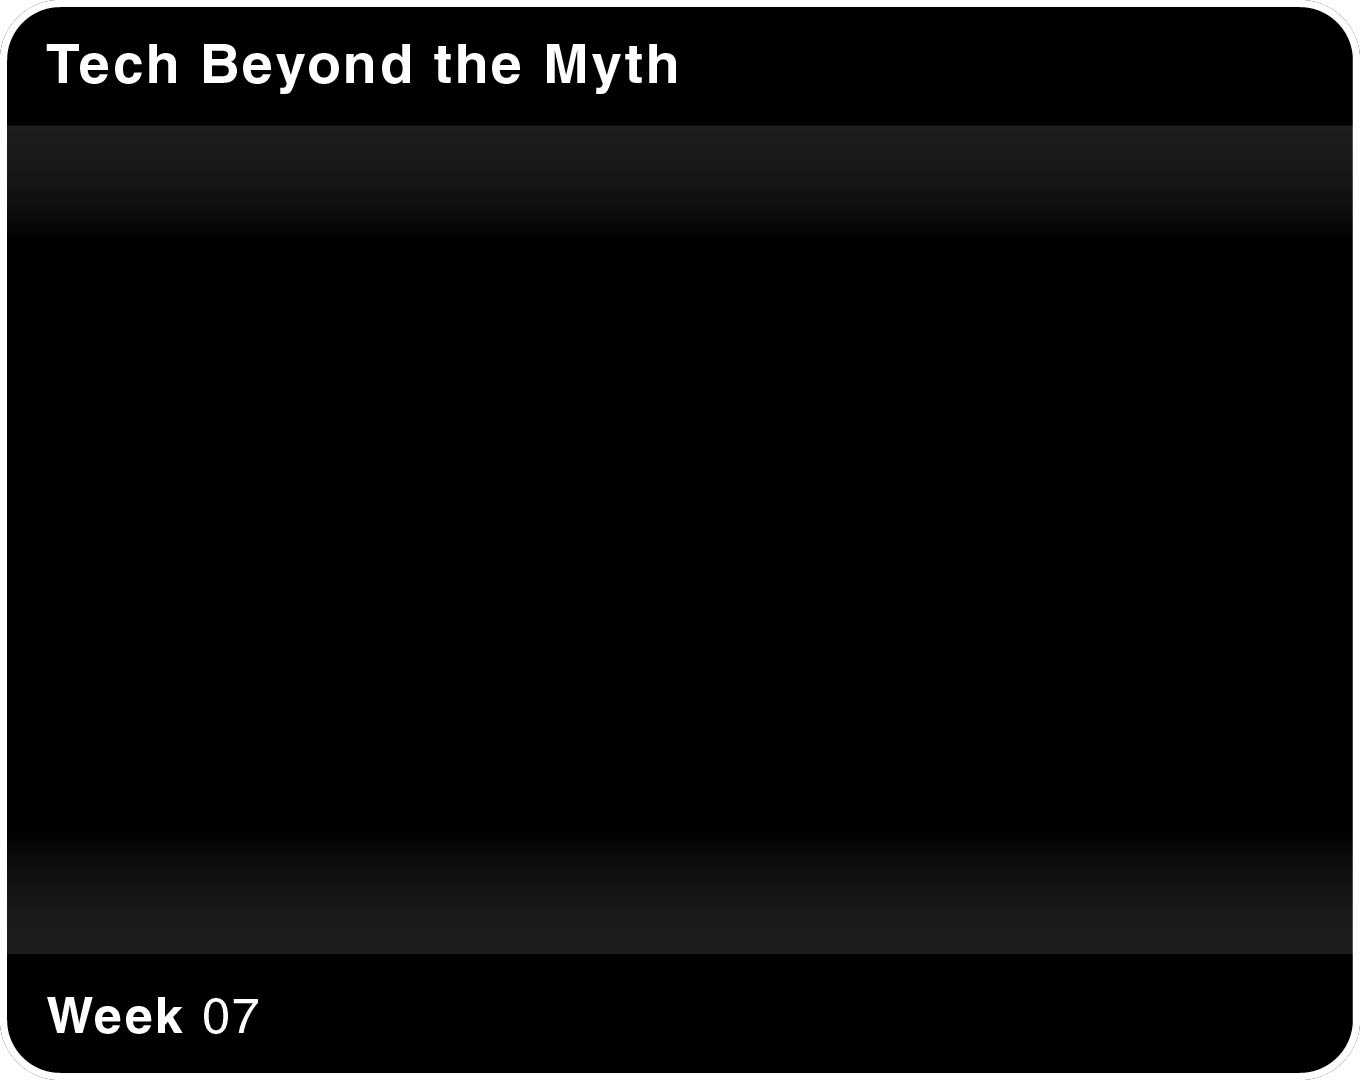
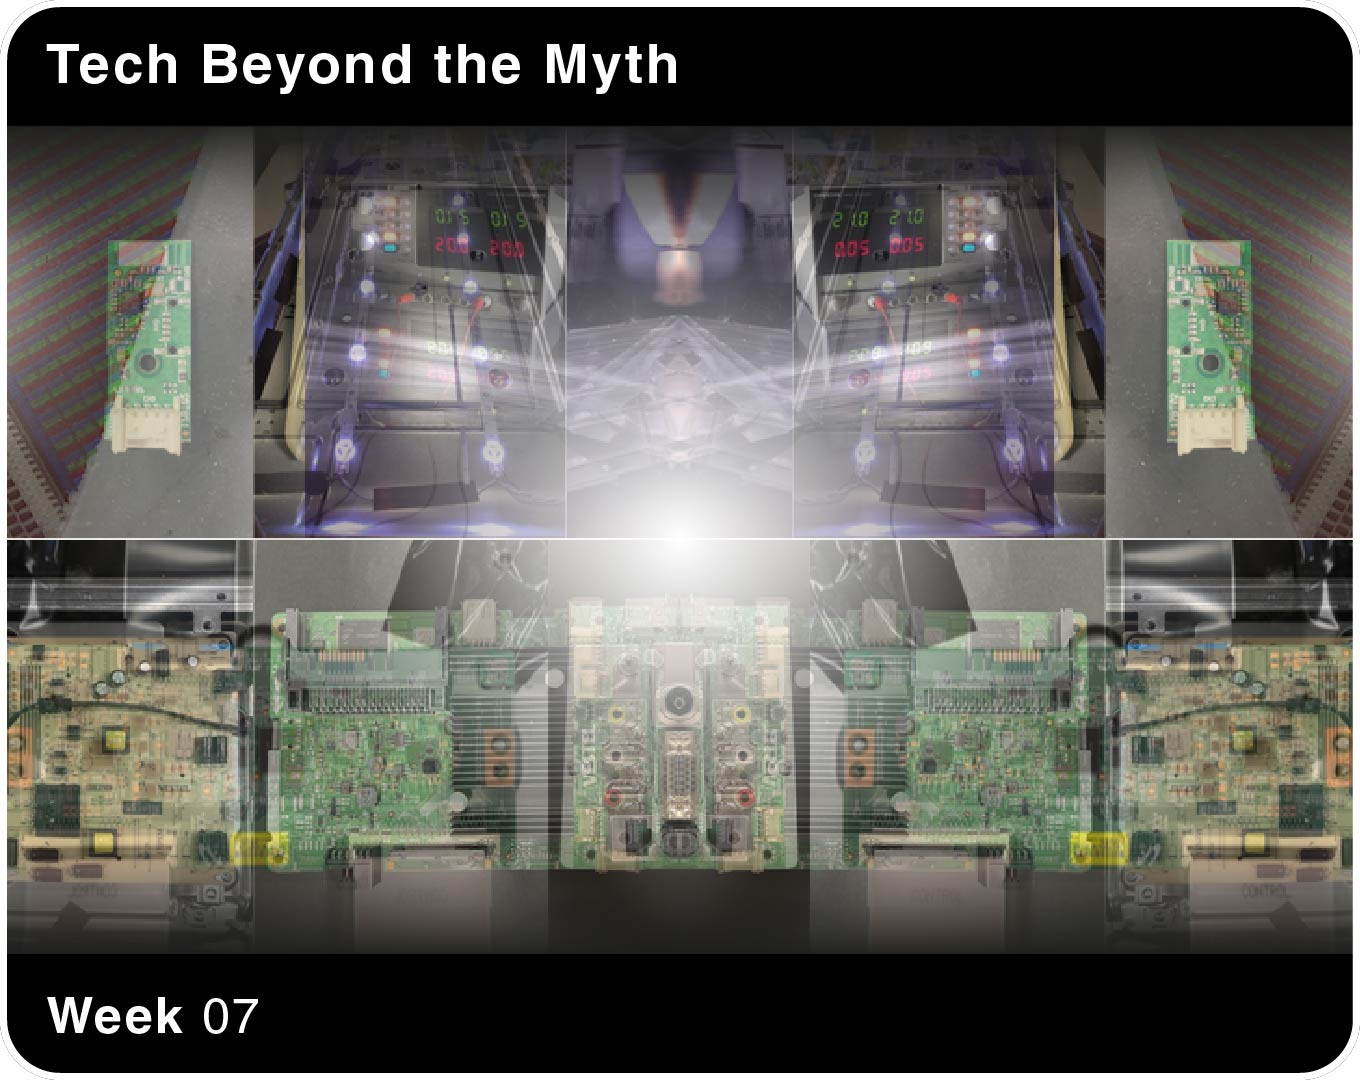
21th commit

diff --git a/8.techbeyondthemyth.html b/8.techbeyondthemyth.html
@@ -6,7 +6,7 @@
     <meta name="viewport" content="width=device-width, initial-scale=1.0">
       <title>xz5rv</title>
       <link rel="stylesheet" href="style.css">
-      <link rel="shortcut icon" type="image/jpg" href="favicon.png"/>
+      <link rel="shortcut icon" type="image/jpg" href="images/favicon.png"/>
       <link rel="stylesheet" type="text/css" href="//fonts.googleapis.com/css?family=Messina+Sans" />
     </head>
     <body>
@@ -22,12 +22,42 @@
          </nav>
         </header>
         <h1>Tech Beyond the Myth</h1>  
+        <div><p2 class="blogTBTM">Diving bottom-up into technology to see how manufacturers can approach and use their tools to produce the products and systems
+        that we use everyday.</p2></div>
+        <br>
+        <section><div>
+          <p2 class="blogTBTM">
+            <p2><h2>Forensics of the obsolescense</h2></p2>
+            Questioning what is inside the products we use on daily base provided insights on how extremely extensive modern day production systems are.
+            Supply chains literally stretch across the globe with one product having components being manufactured in Japan, Turkey, Russia, China and Taiwan.
+            And more so, each of these locations having it's own selection of suppliers with sub-components, sub-sub-components and raw materials that can come from e.g. Africa, South-East Asia or South-America. 
+            With likeliness of being cross-distributed between them so that any product produced by this system - on itself - has travelled an insane amount of distance and, in a way, is an encapsulement of the world's efforts itself. &#127757  
+            <br></br>Aside of that we learned that by disassembling a recent model HITACHI television 📺 and web-researching the parts inside that the same PCB (printed circuit board) produced by
+            a single chip-giant can be sold to several (direct market-rivals) electronics-companies and they can sell it to different customer segments by choosing to in- or exclude certain functionalities
+            on the same single PCB. In the case of our HITACHI tv this was shown as the unused outlines of where an HDMI-port would be in a more expensive model of the same brand. <br></br>
+            I think that for those willing to see it's clear as day that this one-way-stream system cannot survive longterm and exploits its early layers for the benefits of those at the end. 
+            <br>
+            Yes, the consumer has his television and he has it cheap, but at what cost for those that mined its materials and what purpose will it serve next..
+            <br></br>
+            Our television got to us because its LCD screen was cracked. The LCD screen, just <strong>one</strong> broken component out of at least ten perfect working parts
+            and still the entirity of the product was discarded. Even with the knowledgement of which component being the infunctional one, since it gave this as visual feedback on the screen.
 
-        
+            <br>
+          </p2> </div></section>
+        <section>
+          <li class="liTBTM"><img class="photoTBTM1"src="images/forensgroup.jpg"></li>
+          <li class="liTBTM"><img class="photoTBTM2"src="images/forenscomponents.png"></li>
+
+        </section>
+        <div> <img class="photoTBTM3"src="images/hitachi-tv.png"></div>
         <div>
-          <p2 class="blog">
-          Coming up next &#11088
+          <p2 class="blogTBTM">
+            <p2><h2>Measuring the world</h2>
+            In this two-day course we used a provided tool as data-gatherer to reach an objective and
+          research our hypothesis.  </p2>
+            <br></br>
            
+          <script src="https://gist.github.com/rubendehaan/23722626a3e11063737a163102571c58.js"></script>
                            
   
         </p2>
@@ -35,7 +65,9 @@
         </div>
         
       
-    
+        <a href="https://hackmd.io/" class="link">HackMD</a>,
+        <a href="https://raspberrypi.org/" class="link">RaspberryPi</a>
+        <br />By Ruben de Haan on November 14th, 2021
         
 
     </body>

diff --git a/7.designstudio2.html b/7.designstudio2.html
@@ -6,7 +6,7 @@
     <meta name="viewport" content="width=device-width, initial-scale=1.0">
       <title>xz5rv</title>
       <link rel="stylesheet" href="style.css">
-      <link rel="shortcut icon" type="image/jpg" href="favicon.png"/>
+      <link rel="shortcut icon" type="image/jpg" href="images/favicon.png"/>
       <link rel="stylesheet" type="text/css" href="//fonts.googleapis.com/css?family=Messina+Sans" />
     </head>
     <body>
@@ -22,12 +22,41 @@
          </nav>
         </header>
         <h1>Design Studio 2</h1>  
-
+        
         <div>
-          <p2 class="blog">  Coming up next &#11088 </p2> 
+          <p2 class="blog">  <h2>Documentation</h2>
+            My documentation is centered around my notebooks and phone. Images and videos are stored in google photos and accessible from my pc.  Starting from those I expand on it digitally on my laptop's local drive, instagram and my website.<br>
+            The majority of my time I use to draw and visualize. Preferably with just pen and paper.  Presentable work I create with Adobe CC (either Illustrator, Photoshop or Premiere) or - rarely - MS Powerpoint.
+            <br></br><strong>Reflection:</strong><br>
+            I re-watch my notebooks to less. 
+          </p2> 
+          </div>
+          
+          
+          
+          <p2 class="blog">  <h2>Exploration</h2>
+            In the past week there started to grow a sense of acknowledgement and recognition in day-to-day things. Meaning that not all the things and people I encountered felt new, but instead brought some sort of familiarity.
+            Which might be explained by the fact that this is the week where I passed the point of the assumably '21 days it takes to form a habbit'.
+            Starting from the start in early October I was quite focussed on expanding my reality and orientating through it. Zoomed in on this I believe that my current main physical world is situated in the red area on the map below. With the orange areas being locations of only occasional interaction.
+
+     
+          </p2> 
+          
         </div>
         <div> <img src="images/visited-map.jpg" class=photo1designstudio2></div>
         
+        <div>
+          <p2 class="blog">  <h2>Shared design space</h2>
+            Per definition our initial group was centered around the term Solarpunk; a movement focussed on finding renewable solutions, circular systems and combatting climate-change.
+            All of which are goals that supposedly everyone would agree to. To specify both in- and outside of this topic and our personal interests we worked in a collective design space found on the Miro platform.
+            Not necessarily to find matches inbetween each other but more with the goal to define, share and reflect our own topics of attention. 
+          </p2> 
+          
+        </div>
+        <div><img  src="images/miro.png" class="photo2designstudio2"></div>
+        Links:
+          <a href="https://miro.com/" class="link">Miro</a>
+          <br />By Ruben de Haan on November 10th, 2021
 
     </body>
 </html>

diff --git a/3.biozero.html b/3.biozero.html
@@ -6,7 +6,7 @@
     <meta name="viewport" content="width=device-width, initial-scale=1.0">
       <title>xz5rv</title>
       <link rel="stylesheet" href="style.css">
-      <link rel="shortcut icon" type="image/jpg" href="favicon.png"/>
+      <link rel="shortcut icon" type="image/jpg" href="images/favicon.png"/>
       </head>
     <body>
         <header>
@@ -40,8 +40,8 @@
             <br></br> 
             <br>Experimenting with textiles and organic materials on microscopic levels: </br>
           </p2>
-            <div> <img class="photoBIO1"src="images/micro1.png"></a></div>
-            <div> <img class="photoBIO2"src="images/micro2.png"></a></div>
+            <div> <img class="photoBIO1"src="images/micro1.png"></div>
+            <div> <img class="photoBIO2"src="images/micro2.png"></div>
         <p2 class="blog">
             <div>
             <strong>Experiment:</strong>
@@ -55,8 +55,8 @@
             Observing the bacteria trough the microscope learns that there are minimal differences in lactobacillus growth between low- or highpressure sections of 
             the same sample.
             <br></br>
-            <strong>Distillation of laurel</strong><br>
-            Turning laurel leaves into essential oil.
+            <strong>Distillation of laurel:</strong><br>
+            Turning laurel leaves into essential oil.🧪
             <br></br><em>Requirements:</em><br>
             • A distillation kettle with thermometer</br>
             • 2 large buckets <br>
@@ -77,8 +77,10 @@
 
             <br></br>
             <strong>Scientific paper</strong><br>
-            SCID</div>
-            <embed src="pdf/scid.pdf" width="700px" height="600px" />
+            An explanation and conceptual proposal within the subdivision T-B+NK+ of a group of genetic disorders called SCID (Severe Combined Immunodeficiency).</div>
+            <br>
+            <div><iframe src="pdf/scid.pdf#toolbar=0&navpanes=0&scrollbar=0" width="700px" height="400px"></iframe></div> 
+           
             
         </p2>
         <br></br>

diff --git a/style.css b/style.css
@@ -34,7 +34,12 @@ body{
     font-size: small;
     padding: 0px 0px 0px 5% ;} 
 
-  
+
+h1 {color:white;}
+
+h2 {padding:0px 0px 0px 0px;
+    margin-bottom:0px}
+
 .menu {
     text-decoration:none;
     font-family:Arial, Helvetica, sans-serif;
@@ -62,6 +67,10 @@ li {
     margin-left: 100px;
     padding:0px 0px 0px 15px;}
 
+.liTBTM {
+    display: inline-block;
+    margin-left:-10px;
+}
 .term1-menu {
   display:inline-block;
   margin-left:0px;
@@ -122,7 +131,7 @@ li {
   margin-bottom:20px;
   border-radius: 10px;}
 
-.photoAGRI4 {
+.photo2designstudio2 {
   width: 500px;
   margin-top:20px;
   margin-bottom:20px;
@@ -233,6 +242,28 @@ li {
   margin-top:25px;
   margin-bottom:25px;}
 
+.photoTBTM1{
+  display:flex;
+  flex-direction:row;
+  margin:20px 0px 0px 0px;
+  width:300px;
+  border-radius:10px;;}
+
+.photoTBTM2{
+    display:flex;
+    flex-direction:row;
+    margin:0px 20px;
+    width:450px;
+    border-radius:10px;
+}
+
+.photoTBTM3{
+  position:relative;
+  display:flex;
+  margin:20px 0px;
+  width:800px;
+  border-radius:10px;
+}
 .title {
   font: Helvetica;
   font-size: xx-large;}
@@ -248,6 +279,12 @@ p {
   width: 500px;
   margin-left: 30px;}
 
+.blogTBTM {
+  display:inline-block;
+  font-family:Arial, Helvetica, sans-serif;
+  width:800px;
+
+}
 .subtitle {
   color:rgb(204, 204, 204);
   font-family: Arial, Helvetica, sans-serif;
@@ -259,4 +296,4 @@ p {
 .icon {
   width:20px;}
 
-
+  }

diff --git a/4.agrizero.html b/4.agrizero.html
@@ -6,7 +6,7 @@
     <meta name="viewport" content="width=device-width, initial-scale=1.0">
       <title>xz5rv</title>
       <link rel="stylesheet" href="style.css">
-      <link rel="shortcut icon" type="image/jpg" href="favicon.png"/>
+      <link rel="shortcut icon" type="image/jpg" href="images/favicon.png"/>
       <link rel="stylesheet" type="text/css" href="//fonts.googleapis.com/css?family=Messina+Sans" />
     </head>
     <body>
@@ -51,7 +51,7 @@
              and ideally have legs instead of wheels so that intercropping can be more accessible.
              <div><img class="photoAGRI2" src="images/multicrop.png" ></img></div>
              <div><img class="photoAGRI3" src="images/romi spot.jpg" ></img></div>
-             <div><img class="photoAGRI4" src="images/miro.png" ></div>
+            
             </br>
              
                 <br></br>

diff --git a/term1.html b/term1.html
@@ -22,7 +22,7 @@
     </header>
     <body>
             <h1>Term 1</h1>
-            <p2>Personal perceivings, explorations and reflections by me. Term 1 runs from September 2021 till December 2021 and is divided by the topics below.&#128315</p2>      
+            <p2>Personal perceivings, explorations and reflections. Term 1 runs from September 2021 till December 2021 and is divided by the topics below.&#128315</p2>      
         <section>
           <li class="term1-menu"> <a href="1.bootcamp.html" ><img class="topic1"src="images/reflection_1bootcamp.jpg"></a></li>
           <li class="term1-menu"> <a href="2.atlasofweaksignals.html" ><img class="topic2"src="images/reflection_2atlasofweaksignals.jpg"></a></li>

diff --git a/6.livingwithyourownideas.html b/6.livingwithyourownideas.html
@@ -6,7 +6,7 @@
     <meta name="viewport" content="width=device-width, initial-scale=1.0">
       <title>xz5rv</title>
       <link rel="stylesheet" href="style.css">
-      <link rel="shortcut icon" type="image/jpg" href="favicon.png"/>
+      <link rel="shortcut icon" type="image/jpg" href="images/favicon.png"/>
       <link rel="stylesheet" type="text/css" href="//fonts.googleapis.com/css?family=Messina+Sans" />
     </head>
     <body>
@@ -73,7 +73,6 @@
           <a href="https://centrinno.eu/" class="link">Centrinno</a>,
           <a href="https://fab.city" class="link">Fab City</a>
           <br />By Ruben de Haan on November 7th, 2021
-          </br>
         
         </p2>
         </div>

diff --git a/index.html b/index.html
@@ -6,7 +6,7 @@
      <meta http-equiv="X-UA-Compatible" content="IE=edge">
     <meta name="viewport" content="width=device-width, initial-scale=1.0">
       <title>xz5rv</title>
-      <link rel="shortcut icon" type="image/jpg" href="favicon.png"/>
+      <link rel="shortcut icon" type="image/jpg" href="images/favicon.png"/>
       <link rel="stylesheet" href="style.css">
       <link rel="stylesheet" type="text/css" href="//fonts.googleapis.com/css?family=Messina+Sans" />
       </head>

diff --git a/1.bootcamp.html b/1.bootcamp.html
@@ -6,7 +6,7 @@
     <meta name="viewport" content="width=device-width, initial-scale=1.0">
       <title>xz5rv</title>
       <link rel="stylesheet" href="style.css">
-      <link rel="shortcut icon" type="image/jpg" href="favicon.png"/>
+      <link rel="shortcut icon" type="image/jpg" href="images/favicon.png"/>
       <link rel="stylesheet" type="text/css" href="//fonts.googleapis.com/css?family=Messina+Sans" />
     </head>
     <body>

diff --git a/2.atlasofweaksignals.html b/2.atlasofweaksignals.html
@@ -6,7 +6,7 @@
     <meta name="viewport" content="width=device-width, initial-scale=1.0">
       <title>xz5rv</title>
       <link rel="stylesheet" href="style.css">
-      <link rel="shortcut icon" type="image/jpg" href="favicon.png"/>
+      <link rel="shortcut icon" type="image/jpg" href="images/favicon.png"/>
       <link rel="stylesheet" type="text/css" href="//fonts.googleapis.com/css?family=Messina+Sans" />
     </head>
     <body>

diff --git a/5.designstudio1.html b/5.designstudio1.html
@@ -6,7 +6,7 @@
     <meta name="viewport" content="width=device-width, initial-scale=1.0">
       <title>xz5rv</title>
       <link rel="stylesheet" href="style.css">
-      <link rel="shortcut icon" type="image/jpg" href="favicon.png"/>
+      <link rel="shortcut icon" type="image/jpg" href="images/favicon.png"/>
       <link rel="stylesheet" type="text/css" href="//fonts.googleapis.com/css?family=Messina+Sans" />
     </head>
     <body>

diff --git a/contact.html b/contact.html
@@ -6,7 +6,7 @@
     <meta name="viewport" content="width=device-width, initial-scale=1.0">
       <title>xz5rv</title>
       <link rel="stylesheet" href="style.css">
-      <link rel="shortcut icon" type="image/jpg" href="favicon.png"/>
+      <link rel="shortcut icon" type="image/jpg" href="images/favicon.png"/>
       <link rel="stylesheet" type="text/css" href="//fonts.googleapis.com/css?family=Messina+Sans" />
      </head>
    
